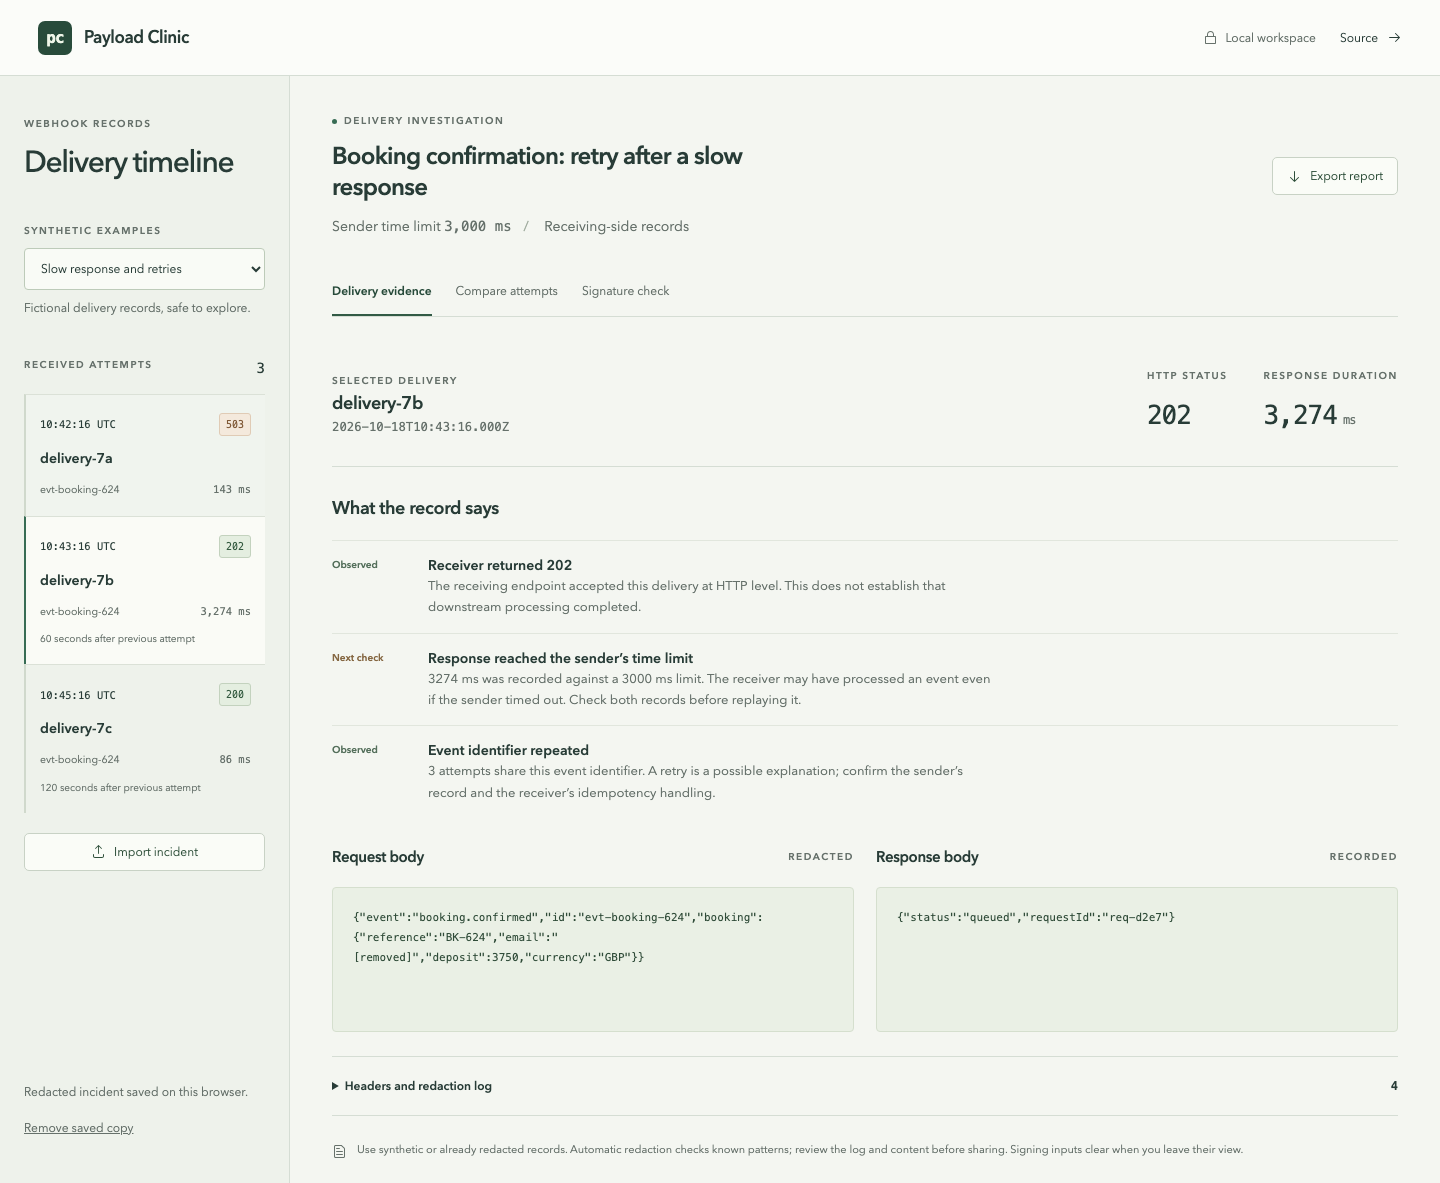
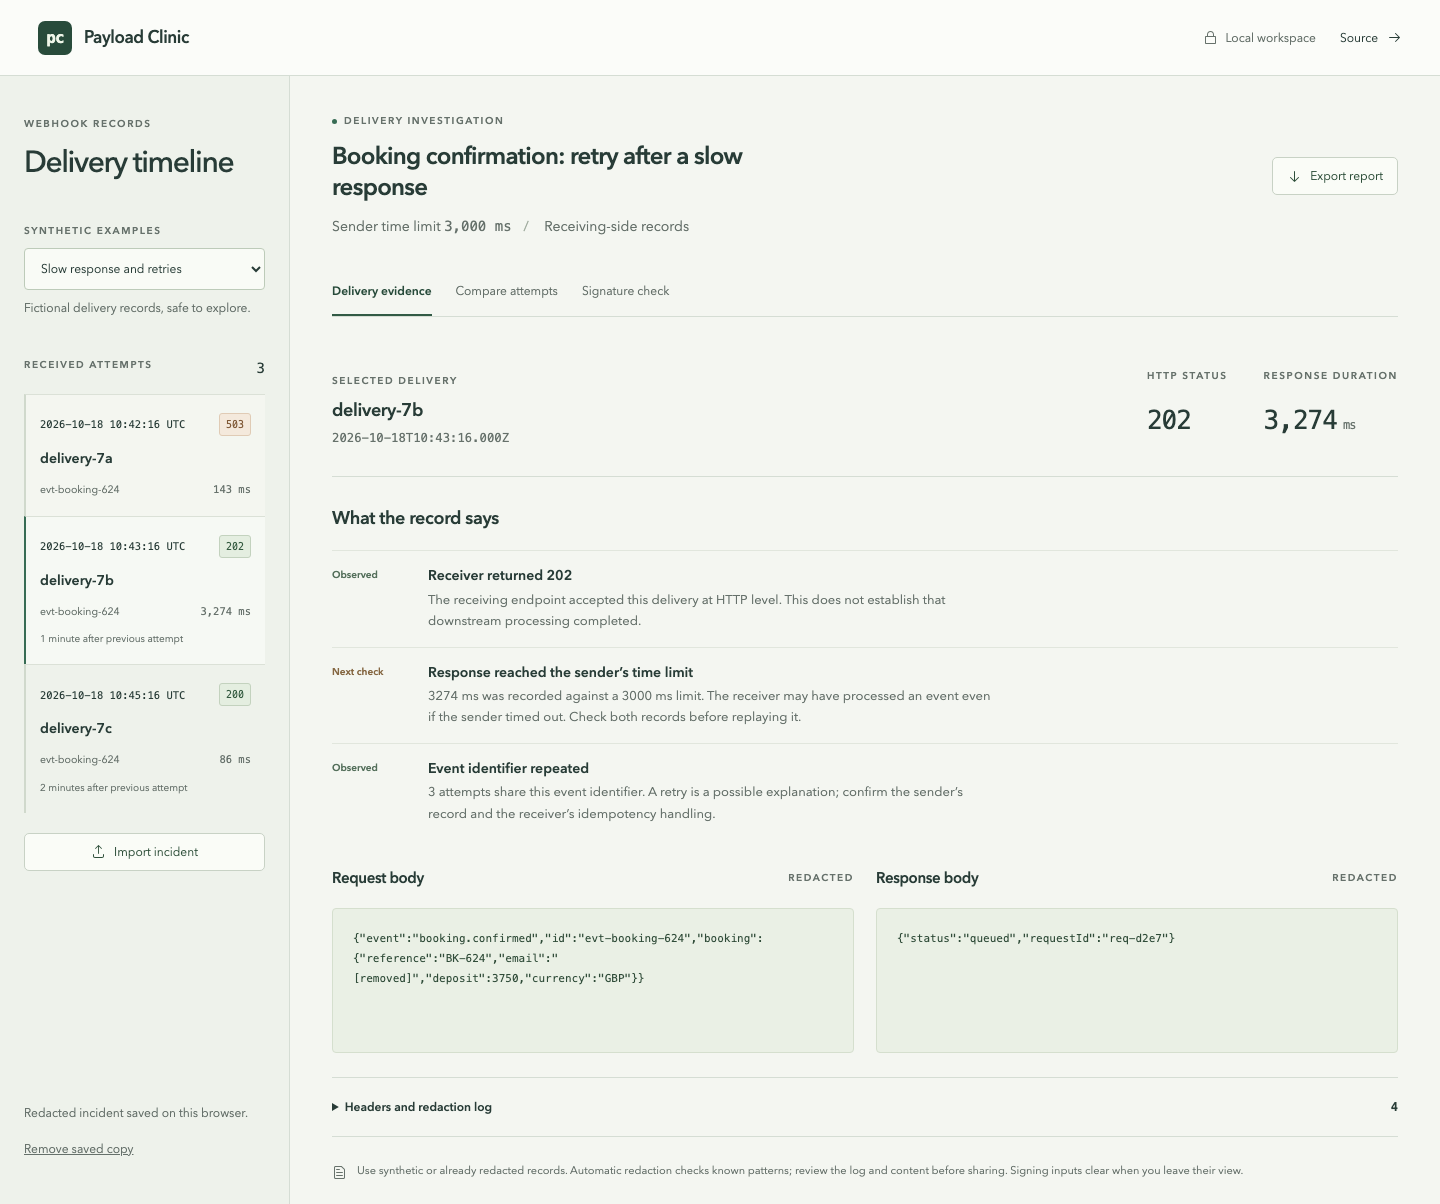
Document incident handling and refresh workspace examples

diff --git a/README.md b/README.md
@@ -35,19 +35,19 @@ The examples are fictional. Observations describe the supplied records; investig
 
 Use synthetic or already redacted records and inspect the result before sharing it. Input stays in the browser. The static host receives normal page and asset requests; incident and signature inputs remain local.
 
-Sensitive JSON fields and headers are removed when their names contain authorization, cookie, signature, token, secret, password, API key or email. The same name checks apply to form-encoded bodies in `key=value&key=value` format. Text checks cover email addresses, long Bearer tokens containing credential punctuation or digits, valid long Basic base64 credentials containing a decoded colon, JWT-shaped strings, Stripe `sk_`, `pk_` and `rk_` live/test keys, and `whsec_` signing secrets. Bare Bearer/Basic credentials and Stripe v1 digests are also collected from headers for repeated-value checks.
+The importer removes header, JSON and form values whose field names contain authorization, cookie, signature, token, secret, password, API key or email. It also checks text for email addresses, JWTs, Stripe API keys and webhook secrets, long Bearer credentials with digits or mixed token characters, and Basic credentials that decode to a user and password. Recognised credentials found in sensitive fields are checked for repeated appearances elsewhere in the incident.
 
-Repeated matching applies to unbroken values of at least 12 characters containing a number or credential punctuation, including long hexadecimal digests. It respects token boundaries and leaves ordinary field names intact. Email and credential patterns are still removed from field names. JSON bodies retain their original number tokens and formatting outside redacted strings and values. Large numeric identifiers, decimal spelling and exponent notation therefore remain available as recorded evidence. Invalid JSON bodies are retained as redacted text; recognised form bodies are encoded again after redaction. Unknown incident properties are discarded.
+JSON and form bodies keep their source formatting outside the fields and values removed. Other bodies remain text. Unknown incident properties are discarded. The redaction log uses the chronological attempt numbers shown in the timeline and report.
 
-These checks cover particular patterns. Names, addresses, encoded values, unfamiliar credential formats and private business details can remain. The redaction log records recognised removals and is preserved when reopening a saved incident.
+These checks cover particular patterns. Names, addresses, encoded values, unfamiliar credential formats and private business details can remain. Review both the log and the remaining content before sharing a report.
 
-The redacted incident and its log are saved in `localStorage` under `payload-clinic.incident.v1`. This storage is unencrypted and readable by scripts on the same origin. **Remove saved copy** deletes it, while the current view stays in memory. Importing a record or choosing an example saves the new incident. Clearing site storage also removes the saved copy.
+The redacted incident and its complete log are saved in `localStorage` under `payload-clinic.incident.v1`. This storage is unencrypted and readable by scripts on the same origin. Saved records may be larger than their source file because replacement labels and log entries take space. If the browser refuses a save, the workspace tells you to export before closing. If a saved record cannot be reopened, it is kept unchanged and a warning appears above the storage controls. Importing another incident replaces that saved copy. **Remove saved copy** deletes it while leaving the current view in memory. Clearing site storage also removes it.
 
 Signing inputs use separate, temporary component memory. Leaving **Signature check** or pressing **Clear sensitive inputs** clears them. Storage and reports contain incident evidence only. A digest match confirms the supplied key and bytes; the timestamp must also pass the five-minute check. Event authenticity and successful processing require evidence from the production systems.
 
 ## Incident format
 
-Import a JSON file or paste a JSON object. The whole file is limited to 1 MB, with 1 to 100 attempts and a title of 1 to 180 characters. Unknown properties are ignored. Header names map to strings. Attempt identifiers must be unique; event identifiers may repeat.
+Import a JSON file or paste a JSON object. The whole file is limited to 1 MB, with 1 to 100 attempts and a title of 1 to 180 characters. Unknown properties are ignored. Header names map to strings. Attempt identifiers must remain unique after redaction; use distinct labels that contain no personal details. Event identifiers may repeat.
 
 ```json
 {
@@ -92,9 +92,9 @@ For Linux environments without browser system libraries, use `npx playwright ins
 
 ## Verification
 
-The test suite covers chronological ordering, status interpretation, sender time limits, invalid JSON, malformed import structures, duplicate identifiers, redaction across bodies and nested object keys, repeated secrets, ordinary authentication error messages, lossless numeric JSON bodies and report content. A near-limit encoded-body test checks import and reopen time against a 1.5 second budget. Cryptographic tests include RFC 4231 test case 1 and the supplied Stripe signing format, with changed bytes, missing or malformed signatures and expired timestamps.
+Unit tests exercise ordering and retry intervals, status interpretation, validation, redaction, storage recovery and report output. They cover large batches of email events, encoded attachments, original body formatting and numeric identifiers. Signature tests use RFC 4231 and the Stripe signing format, including changed bytes, malformed headers and expired timestamps.
 
-Browser tests exercise a complete investigation and export, invalid and valid imports, redacted persistence and the full redaction log across reload, transient signing inputs, an expired timestamp, a 390 px layout, and keyboard focus containment and restoration. CI installs dependencies, runs the unit tests, builds the app and runs Chromium tests. Publishing depends on that verification job succeeding for the same commit. Deployment jobs queue per branch so that separate commits do not try to deploy to GitHub Pages simultaneously.
+Browser tests follow an investigation through import, reload and export, then check transient signing inputs, keyboard navigation, spacing and a 390 px layout. CI runs the unit tests, production build and Chromium tests before publishing that commit to GitHub Pages.
 
 Screenshots show the application running with synthetic records at 1440 px. Run `CAPTURE_DOCS=1 npm run test:browser -- --grep "capture the three"` to refresh them in `docs/screenshots/`.
 
